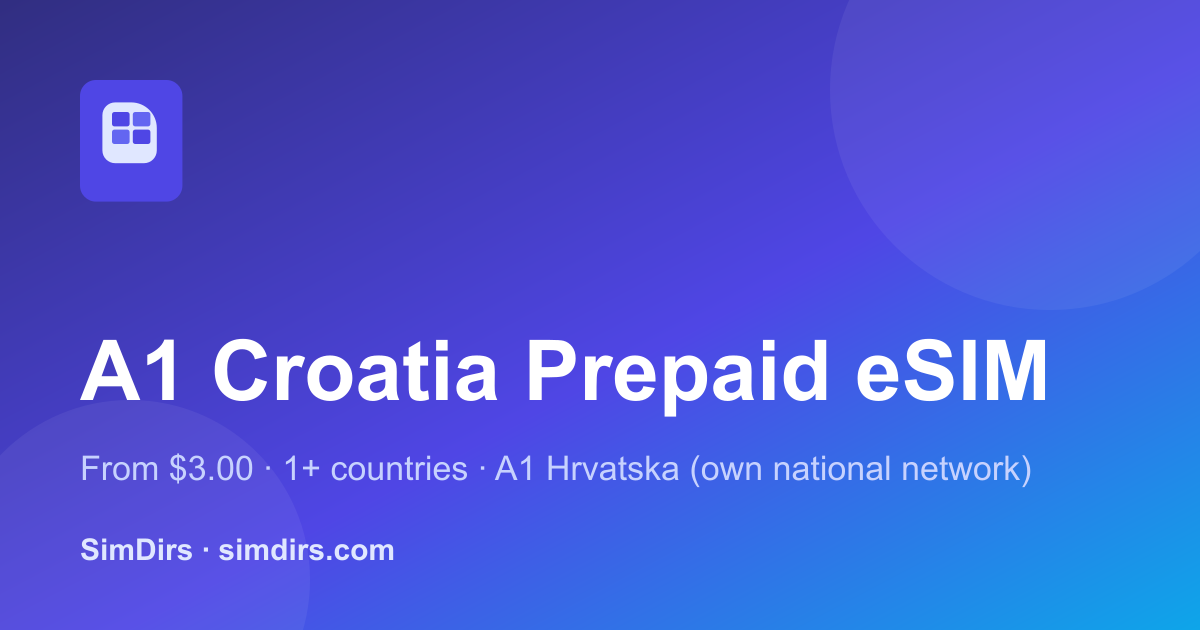
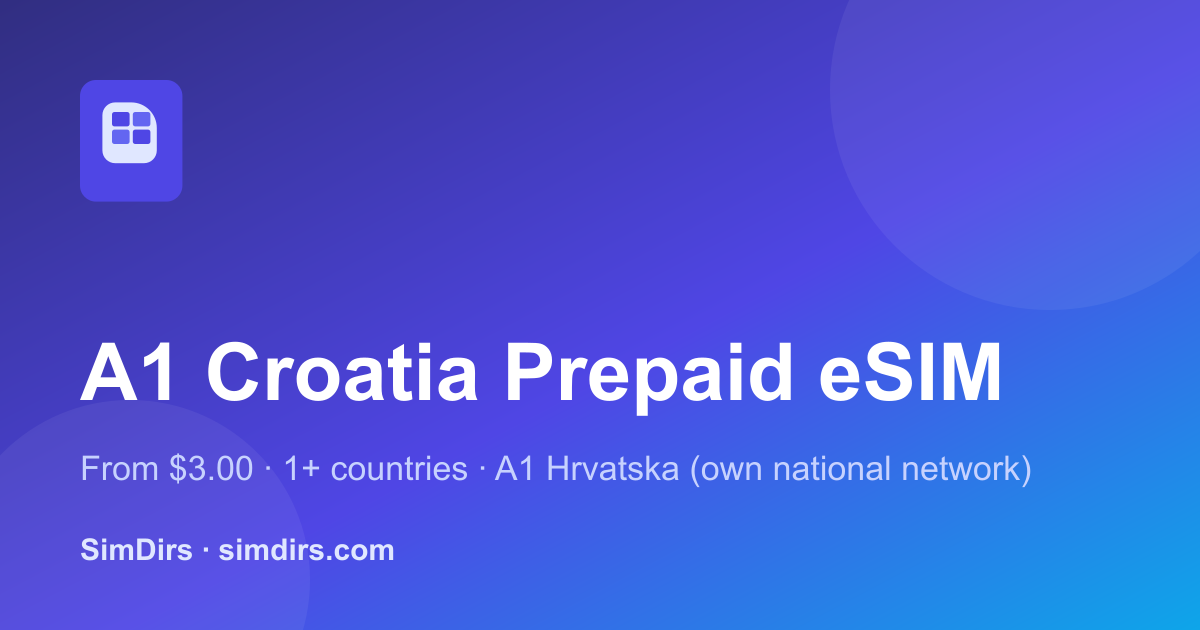
seo: audit fixes — 301 no-slash redirects, sitemap lastmod, news OG images, shorter long titles, expand 13 zh provider details
- worker.js: rewrite asset 307/302 redirects as 301 (permanent) for URL-form consolidation
- astro.config: sitemap lastmod: new Date() (was emitting zero lastmod tags)
- generate-og.mjs: per-news-post OG images + auto font-shrink for long titles; NewsDetailView wiring
- titles: japan guide 92->57 chars, how-to-choose 79->56 (en), japan zh shortened
- 13 provider zh details expanded to 300-455 chars, aligned with EN coverage, broken paragraphs fixed

Changed region(s): [[0.0925, 0.5127, 0.8942, 0.6635]]

diff --git a/worker.js b/worker.js
@@ -29,10 +29,22 @@ export default {
         return Response.redirect(dest.href, r.code);
       }
     }
-    // normal traffic -> static assets; guard against missing binding so a
-    // config regression 500s loudly in tail instead of silently.
+    // normal traffic -> static assets; binding must be declared
+    // in wrangler.jsonc (assets.binding = "ASSETS") + run_worker_first = true.
     if (env && env.ASSETS && typeof env.ASSETS.fetch === "function") {
-      return env.ASSETS.fetch(request);
+      // Static-asset 307s (no-slash -> slash) are temporary by default; make
+      // them permanent 301s so crawlers consolidate link equity on one form.
+      const res = await env.ASSETS.fetch(request);
+      if (res.status === 307 || res.status === 302) {
+        const loc = res.headers.get("Location");
+        if (loc) {
+          return new Response(null, {
+            status: 301,
+            headers: { Location: loc, "Cache-Control": "public, max-age=3600" },
+          });
+        }
+      }
+      return res;
     }
     return new Response(
       "asset binding unavailable — check wrangler.jsonc assets.binding",

diff --git a/src/content/news/en/how-to-choose-travel-esim-2026.md b/src/content/news/en/how-to-choose-travel-esim-2026.md
@@ -1,6 +1,6 @@
 ---
 lang: en
-title: "How to Choose a Travel eSIM in 2026: Match the Plan to Your Trip Type"
+title: "How to Choose a Travel eSIM in 2026 (by Trip Type)"
 description: City break, multi-country hop, remote-work month, or minimal safety net — the best eSIM strategy for four typical trip shapes, with verified price ranges.
 date: 2026-08-18
 tags: [guide, buying-guide, esim]

diff --git a/src/content/news/en/japan-esim-guide-2026.md b/src/content/news/en/japan-esim-guide-2026.md
@@ -1,6 +1,6 @@
 ---
 lang: en
-title: "Japan Travel eSIM Guide 2026: KDDI/IIJ Routes, True Unlimited and Price Comparison"
+title: "Japan Travel eSIM Guide 2026: Best Networks & Prices"
 description: How to pick a Japan eSIM — verified KDDI 5G unlimited, IIJ throttled bundles and daily-refresh plans, matched to your trip length and usage.
 date: 2026-08-18
 tags: [japan, guide, esim]

diff --git a/src/content/news/zh/japan-esim-guide-2026.md b/src/content/news/zh/japan-esim-guide-2026.md
@@ -1,6 +1,6 @@
 ---
 lang: zh
-title: 日本 eSIM 2026 完全指南：KDDI/IIJ 线路、真不限量与价格对比
+title: 日本 eSIM 2026 指南：线路与价格对比
 description: 日本旅行 eSIM 怎么选——已核验的 KDDI 5G 不限量、IIJ 降速包、按日刷新套餐价格，按天数与用量对号入座。
 date: 2026-08-18
 tags: [日本, 指南, esim]
